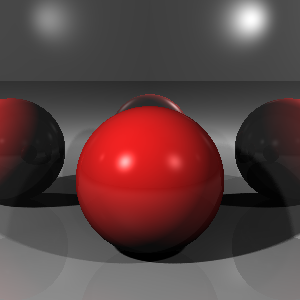
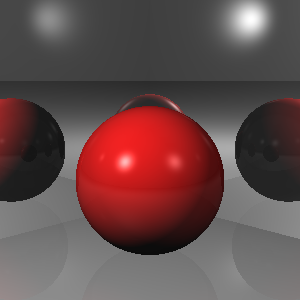
almost final

Changed region(s): [[0.0, 0.48, 1.0, 0.9]]

diff --git a/raytracer/ray_tracer.py b/raytracer/ray_tracer.py
@@ -79,9 +79,12 @@ def find_closest_intersection(ray, intersectable):
     
     return closest_intersection, closest_object, closest_normal
 
-def trace_ray(ray, intersectable, lights, materials, scene_settings, depth=0):
-    if depth > scene_settings.max_recursions: 
-        return Vector(0, 0, 0)
+def trace_ray(ray, intersectable, lights, materials, scene_settings, remaining_recursions=None):
+
+    if remaining_recursions is None:
+        remaining_recursions = int(scene_settings.max_recursions)
+    if remaining_recursions < 0:
+        return Vector(*scene_settings.background_color)
 
     intersection, hit_object, normal = find_closest_intersection(ray, intersectable)
 
@@ -107,62 +110,56 @@ def trace_ray(ray, intersectable, lights, materials, scene_settings, depth=0):
         light_dir = (light.position - intersection).normalize()
         light_distance = (light.position - intersection).magnitude()
         
-        # Shadow Check
-        shadow_intensity = 0.0 # 0 = fully in shadow, 1 = fully lit
-        
-        if light.radius < EPSILON: # Hard Shadow
-            # Direction TO light
+        # Shadow / visibility check
+        # PDF: if N==1 only one ray is cast (hard shadows). For N>1, cast N*N rays for soft shadows.
+        N = int(scene_settings.root_number_shadow_rays)
+        shadow_intensity = 0.0  # 0 = fully blocked, 1 = fully visible
+
+        if N <= 1 or light.radius < EPSILON:
+            # Hard shadow (single ray toward light center)
             shadow_ray = Ray(hit_point_out, light_dir)
-            shadow_hit, shadowed_obj, _ = find_closest_intersection(shadow_ray, intersectable)
-            # Check if hit object is closer than light
+            shadow_hit, _, _ = find_closest_intersection(shadow_ray, intersectable)
             if shadow_hit and (shadow_hit - hit_point_out).magnitude() < light_distance:
                 shadow_intensity = 0.0
             else:
                 shadow_intensity = 1.0
-        else: # Soft Shadow
-            total_samples = scene_settings.root_number_shadow_rays ** 2
+        else:
+            # Soft shadows: stratified N×N jittered sampling over an area light
+            total_samples = N * N
             unblocked_count = 0
-            
-            # 1. Coordinate System for the Area Light
-            # We need a plane perpendicular to the direction from Light to Hit Point.
-            # Vector from Light to Hit Point:
+
+            # Plane perpendicular to direction from light to hit point
             L_vec = (intersection - light.position).normalize()
-            
-            # Find an arbitrary vector distinct from L_vec to compute cross product
+
             arbitrary_up = Vector(0, 1, 0)
-            if abs(L_vec.dot(arbitrary_up)) > 0.99: # If parallel to vertical, pick horizontal
-                 arbitrary_up = Vector(1, 0, 0)
-            
-            # Basis vectors for the light plane
+            if abs(L_vec.dot(arbitrary_up)) > 0.99:
+                arbitrary_up = Vector(1, 0, 0)
+
             light_u = L_vec.cross(arbitrary_up).normalize()
             light_v = L_vec.cross(light_u).normalize()
-            
-            # Grid width is light.radius (as per user request: "wide as the defined light radius")
-            # Usually radius implies width=2*radius, but user said "as wide as radius".
-            # Assuming radius is the *extent* of the square, or the side length = radius.
-            cell_size = light.radius / scene_settings.root_number_shadow_rays
 
-            for i in range(int(scene_settings.root_number_shadow_rays)):
-                for j in range(int(scene_settings.root_number_shadow_rays)):
-                    # Random jitter within the cell
+            cell_size = light.radius / N
+            for i in range(N):
+                for j in range(N):
                     rand_u = (i + np.random.rand()) * cell_size - (light.radius / 2)
                     rand_v = (j + np.random.rand()) * cell_size - (light.radius / 2)
-                    
-                    # Calculate sample position on the light plane relative to light center
+
                     light_sample = light.position + light_u * rand_u + light_v * rand_v
-                    
                     sample_dir = (light_sample - intersection).normalize()
                     sample_dist = (light_sample - intersection).magnitude()
-                    
-                    shadow_ray = Ray(hit_point_out, sample_dir)
-                    shadow_hit, shadowed_obj, _ = find_closest_intersection(shadow_ray, intersectable)
-                    
-                    if not shadow_hit or (shadow_hit - hit_point_out).magnitude() > sample_dist:
-                         unblocked_count += 1
-            
-            shadow_intensity = unblocked_count / total_samples
 
-        if shadow_intensity > 0:
+                    shadow_ray = Ray(hit_point_out, sample_dir)
+                    shadow_hit, _, _ = find_closest_intersection(shadow_ray, intersectable)
+                    if not shadow_hit or (shadow_hit - hit_point_out).magnitude() > sample_dist:
+                        unblocked_count += 1
+
+            light_hit_ratio = unblocked_count / total_samples
+            shadow_intensity = (1-light_hit_ratio)+(light.shadow_intensity*light_hit_ratio)
+
+        # PDF: light intensity = (1 - shadowIntensity)*1 + shadowIntensity*(%visible)
+        light_intensity = (1.0 - light.shadow_intensity) + light.shadow_intensity * shadow_intensity
+
+        if light_intensity > 0:
             # Diffuse
             diffuse_factor = max(0, normal.dot(light_dir))
             diffuse_contribution = material.diffuse_color * light.color * diffuse_factor
@@ -174,32 +171,55 @@ def trace_ray(ray, intersectable, lights, materials, scene_settings, depth=0):
                 view_dir = (ray.origin - intersection).normalize()
                 
                 specular_factor = max(0, view_dir.dot(reflect_vector)) ** material.shininess
-                specular_contribution = light.color * material.specular_color * specular_factor 
+                specular_contribution = light.color * material.specular_color * specular_factor * light.specular_intensity 
             
             # Combine Diffuse + Specular
-            current_color += (diffuse_contribution + specular_contribution) * shadow_intensity
+            current_color += (diffuse_contribution + specular_contribution) * light_intensity
 
 
     # Recursion: Reflection
     if material.reflection_color.magnitude() > 0:
-        reflect_dir = (ray.direction.reflect(normal)) 
+        reflect_dir = (ray.direction.reflect(normal))
         reflected_ray = Ray(hit_point_out, reflect_dir)
-        reflected_color = trace_ray(reflected_ray, intersectable, lights, materials, scene_settings, depth + 1)
+        if remaining_recursions <= 0:
+            reflected_color = Vector(*scene_settings.background_color)
+        else:
+            reflected_color = trace_ray(
+                reflected_ray,
+                intersectable,
+                lights,
+                materials,
+                scene_settings,
+                remaining_recursions=remaining_recursions - 1,
+            )
         total_reflection = reflected_color * material.reflection_color
 
     # Recursion: Transparency
-    transparency_color = Vector(0,0,0)
+    transparency_color = Vector(0, 0, 0)
     if material.transparency > 0:
-        transparency_ray = Ray(hit_point_in, ray.direction) 
-        transparency_color = trace_ray(transparency_ray, intersectable, lights, materials, scene_settings, depth + 1)
+        transparency_ray = Ray(hit_point_in, ray.direction)
+        if remaining_recursions <= 0:
+            transparency_color = Vector(*scene_settings.background_color)
+        else:
+            transparency_color = trace_ray(
+                transparency_ray,
+                intersectable,
+                lights,
+                materials,
+                scene_settings,
+                remaining_recursions=remaining_recursions - 1,
+            )
 
     # 2. Final Color Mixing Formula
     # IN THE INSTRUCTIONS PDF: Output = (Background * Trans) + (Diffuse + Specular) * (1 - Trans) + Reflection
     # 'current_color' currently contains (Diffuse + Specular) from all lights
+    # Note: Reflection is added independently, not affected by transparency
     
-    return (transparency_color * material.transparency) + \
-           (current_color * (1 - material.transparency)) + \
-           total_reflection
+    final_color = (transparency_color * material.transparency) + \
+                  (current_color * (1 - material.transparency)) + \
+                  total_reflection
+    
+    return final_color
 
 
 def main():
@@ -235,7 +255,14 @@ def main():
             # args.width - 1 - x Flips the Left/Right axis to fix mirroring
             ray = camera.get_ray(args.width - 1 - x, args.height - 1 - y, args.width, args.height, forward_vector, right_vector, up_vector)
             
-            final_color = trace_ray(ray, intersectable, lights, materials, scene_settings)
+            final_color = trace_ray(
+                ray,
+                intersectable,
+                lights,
+                materials,
+                scene_settings,
+                remaining_recursions=int(scene_settings.max_recursions),
+            )
             
             # Store in image
             image_array[y, x] = final_color.to_rgb()
